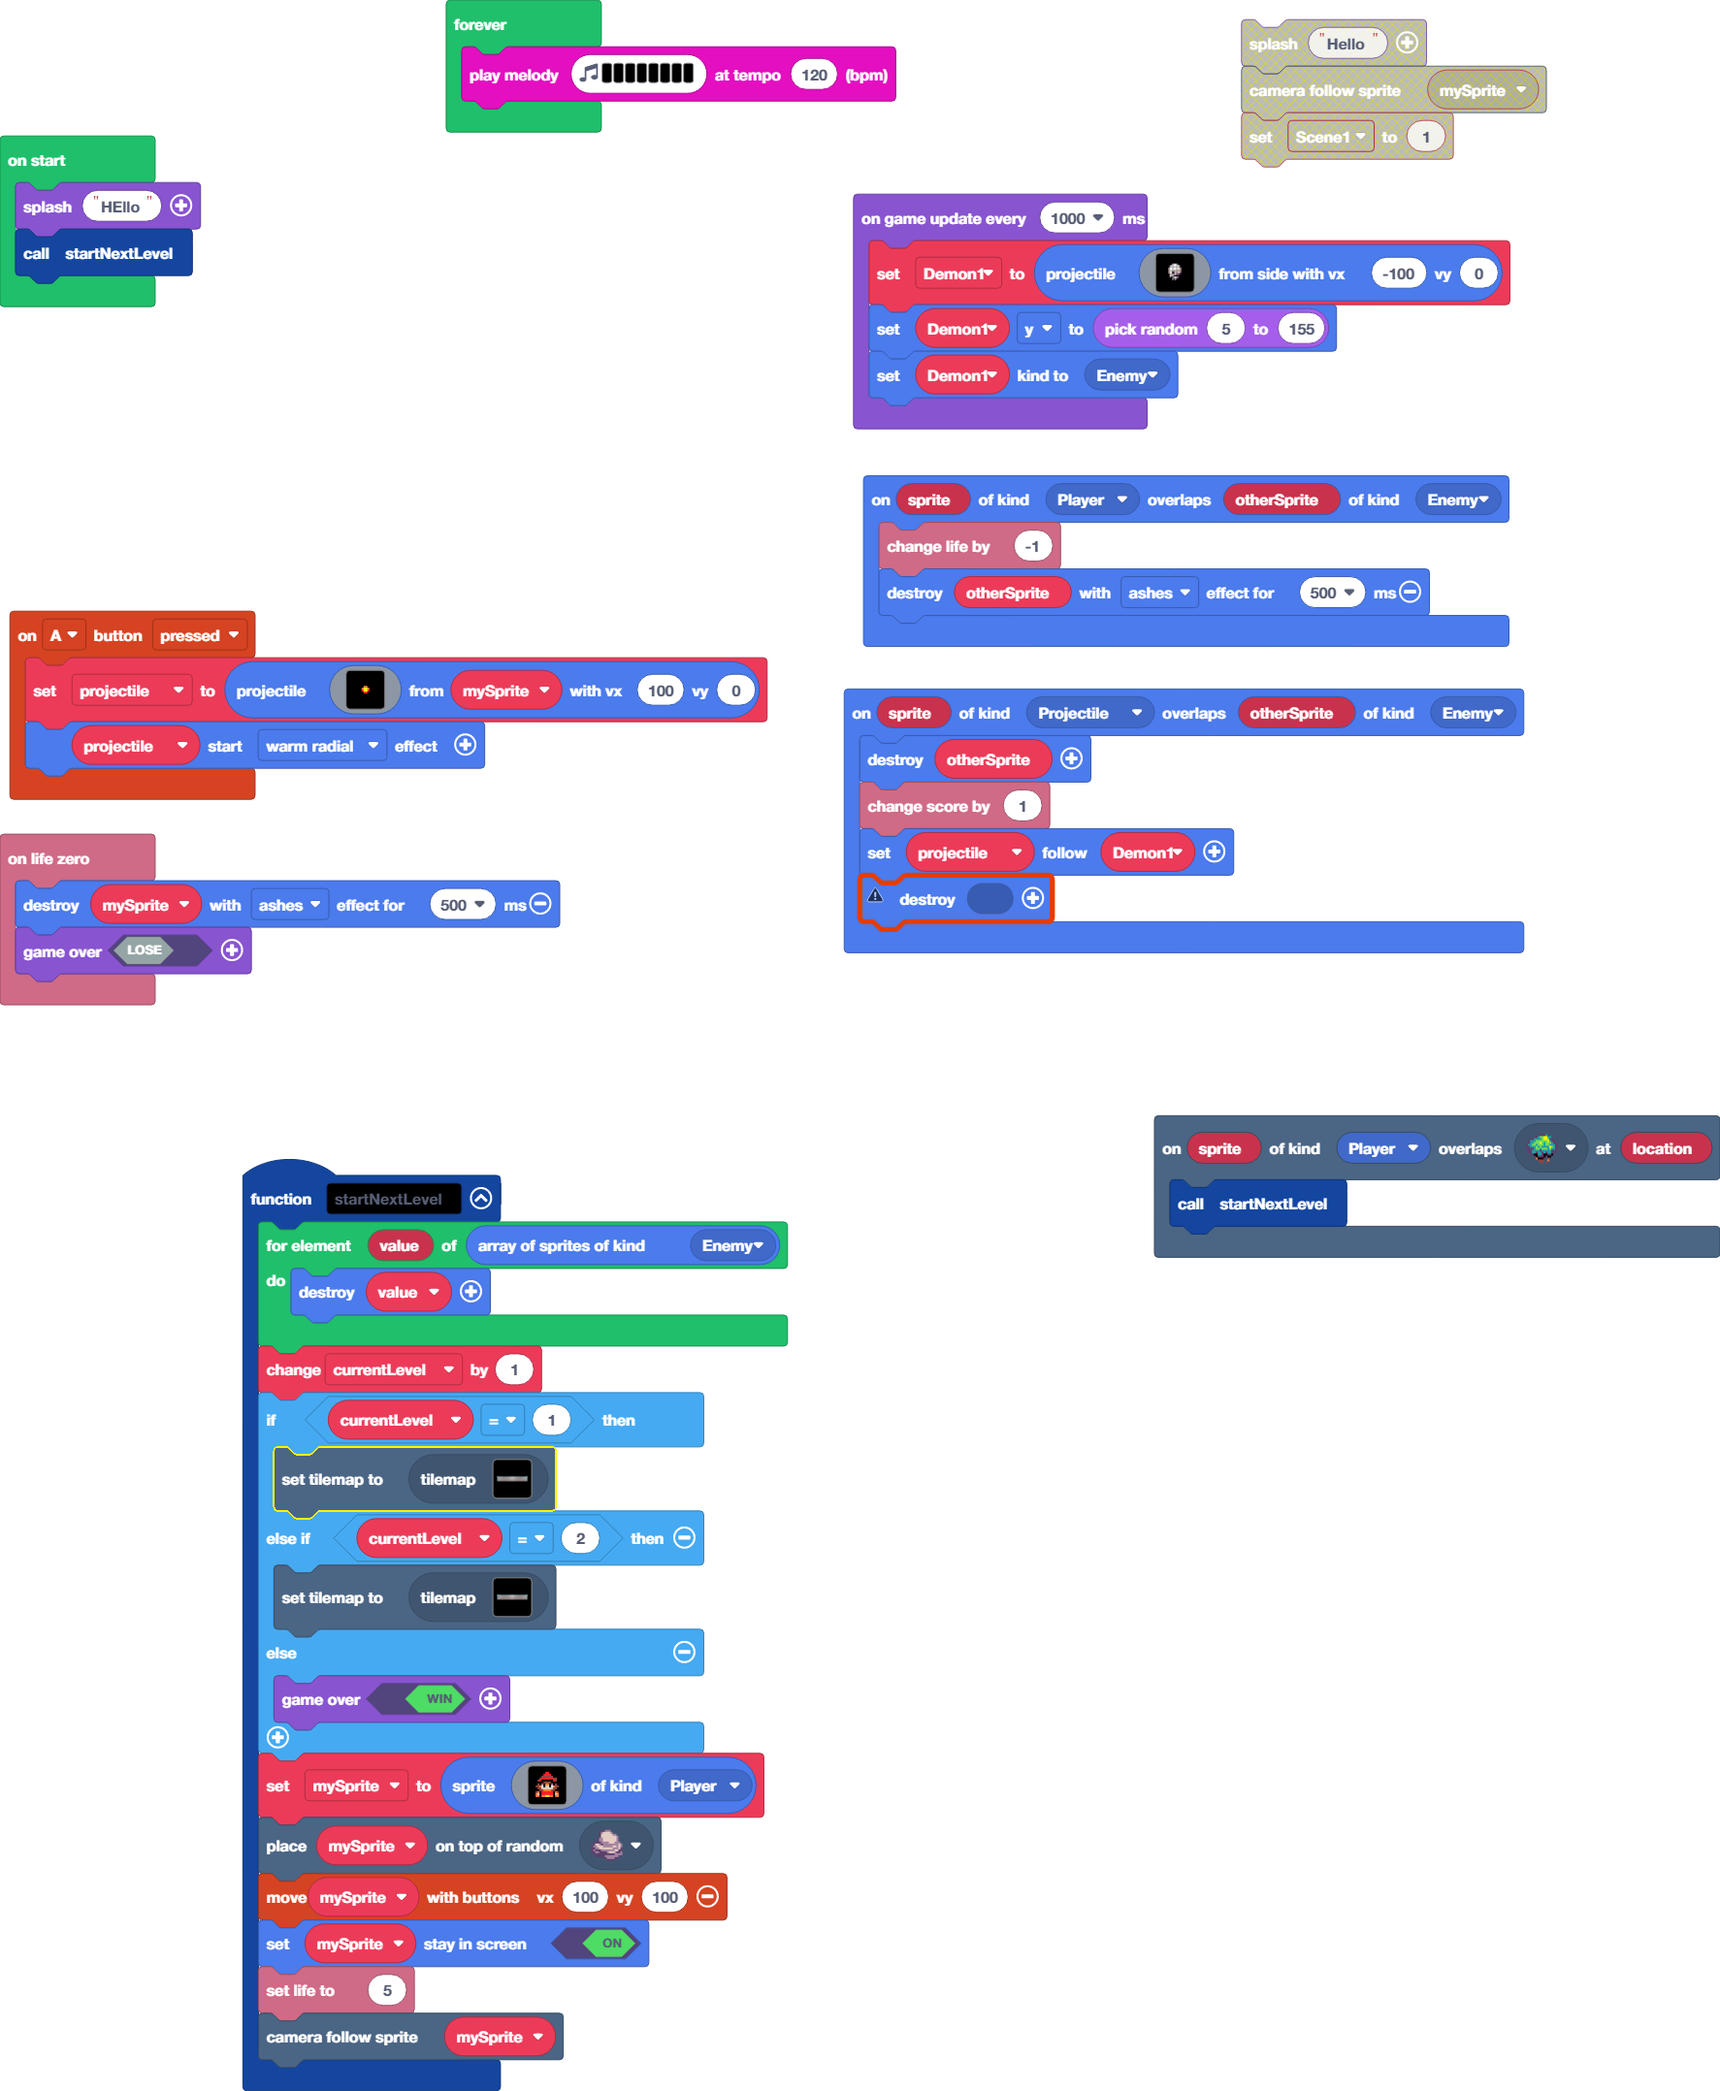
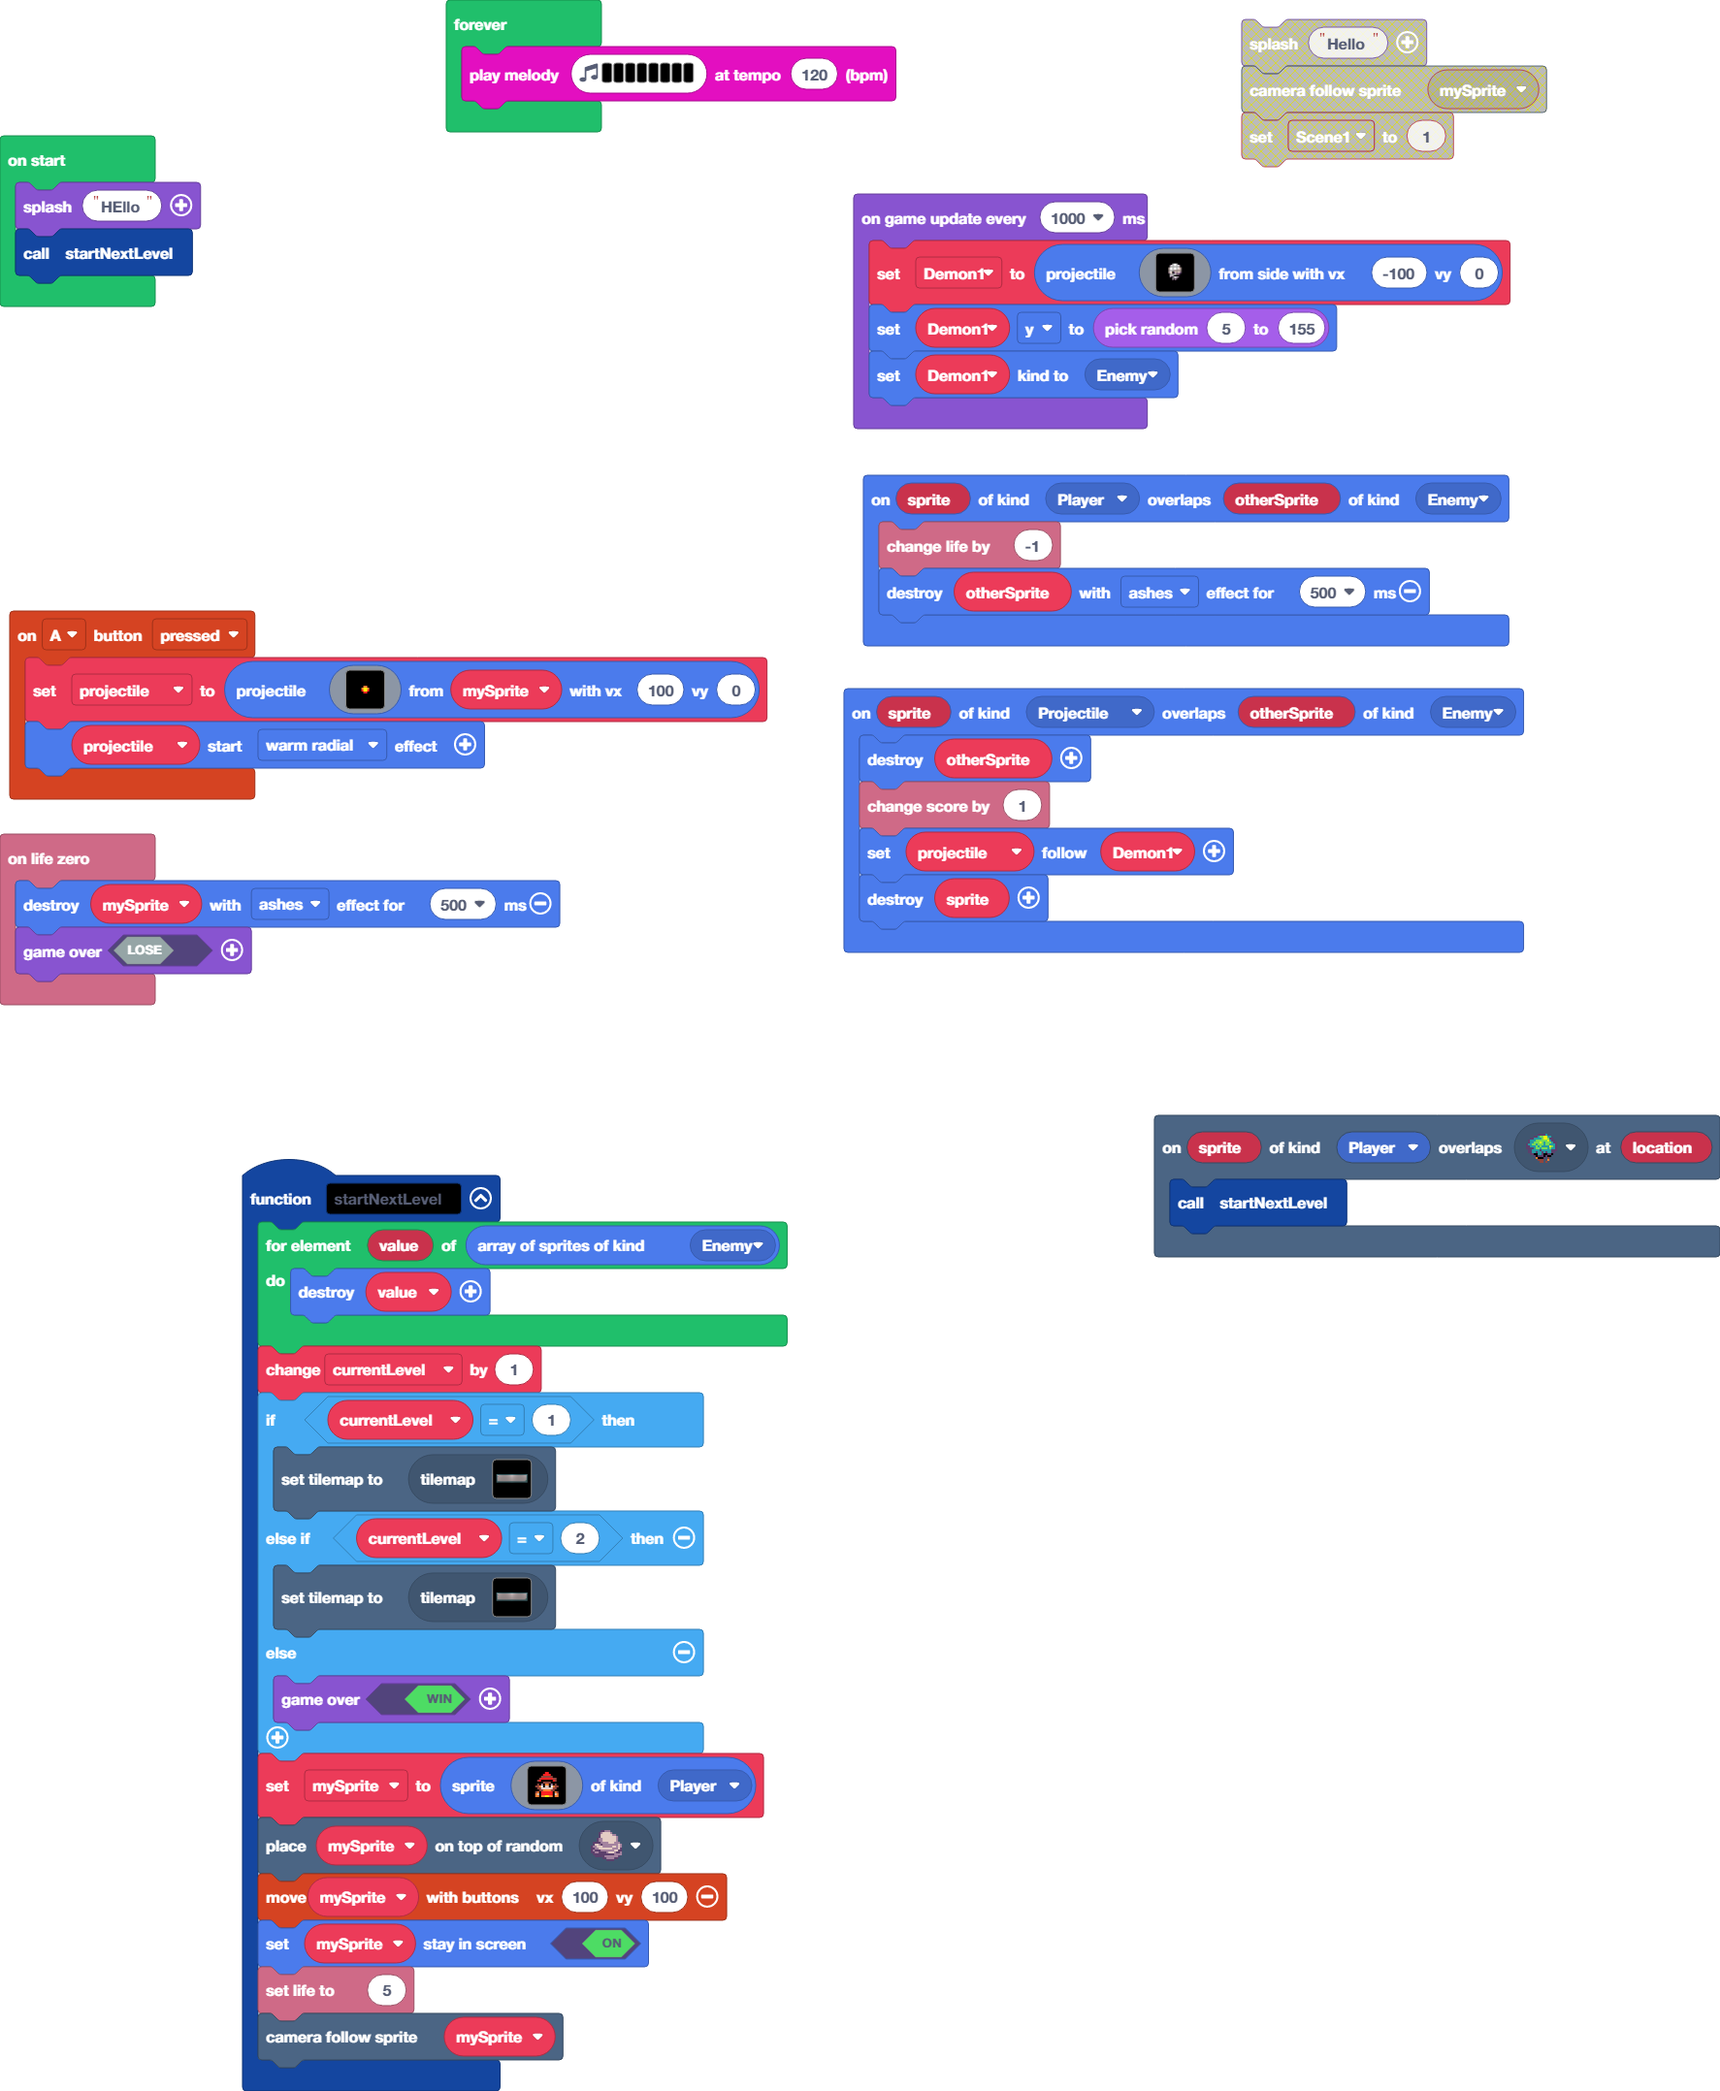
(nearly )everything working :)

diff --git a/tilemap.g.ts b/tilemap.g.ts
@@ -44,13 +44,16 @@ namespace myTiles {
 . . . . . . . . . . . . . . . . 
 `, [myTiles.transparency16], TileScale.Sixteen);
             case "level1":
[2 lines of base64/hex data omitted]
 2 2 2 2 2 2 2 2 2 2 2 2 2 2 2 2 2 2 2 2 2 2 2 2 2 2 2 2 2 2 
 2 . . . . . . . . . . . . . . . . . . . . . . . . . . . . 2 
 2 . . . . . . . . . . . . . . . . . . . . . . . . . . . . 2 
 2 . . . . . . . . . . . . . . . . . . . . . . . . . . . . 2 
 2 . . . . . . . . . . . . . . . . . . . . . . . . . . . . 2 
-`, [myTiles.transparency16,sprites.dungeon.greenOuterSouth0,sprites.dungeon.greenOuterNorth1,sprites.dungeon.greenOuterEast0,sprites.dungeon.greenOuterWest1,sprites.dungeon.floorLightMoss,sprites.castle.rock0], TileScale.Sixteen);
+2 . . . . . . . . . . . . . . . . . . . . . . . . . . . . 2 
+2 . . . . . . . . . . . . . . . . . . . . . . . . . . . . 2 
+2 2 2 2 2 2 2 2 2 2 2 2 2 2 2 2 2 2 2 2 2 2 2 2 2 2 2 2 2 2 
+`, [myTiles.transparency16,sprites.dungeon.greenOuterSouth0,sprites.dungeon.greenOuterNorth1,sprites.dungeon.greenOuterEast0,sprites.dungeon.greenOuterWest1,sprites.dungeon.floorLightMoss,sprites.castle.rock0,sprites.castle.saplingOak], TileScale.Sixteen);
         }
         return null;
     })

diff --git a/main.ts b/main.ts
@@ -66,7 +66,7 @@ sprites.onOverlap(SpriteKind.Projectile, SpriteKind.Enemy, function (sprite, oth
     otherSprite.destroy()
     info.changeScoreBy(1)
     projectile.follow(Demon1)
-    null.destroy()
+    sprite.destroy()
 })
 sprites.onOverlap(SpriteKind.Player, SpriteKind.Enemy, function (sprite, otherSprite) {
     info.changeLifeBy(-1)
